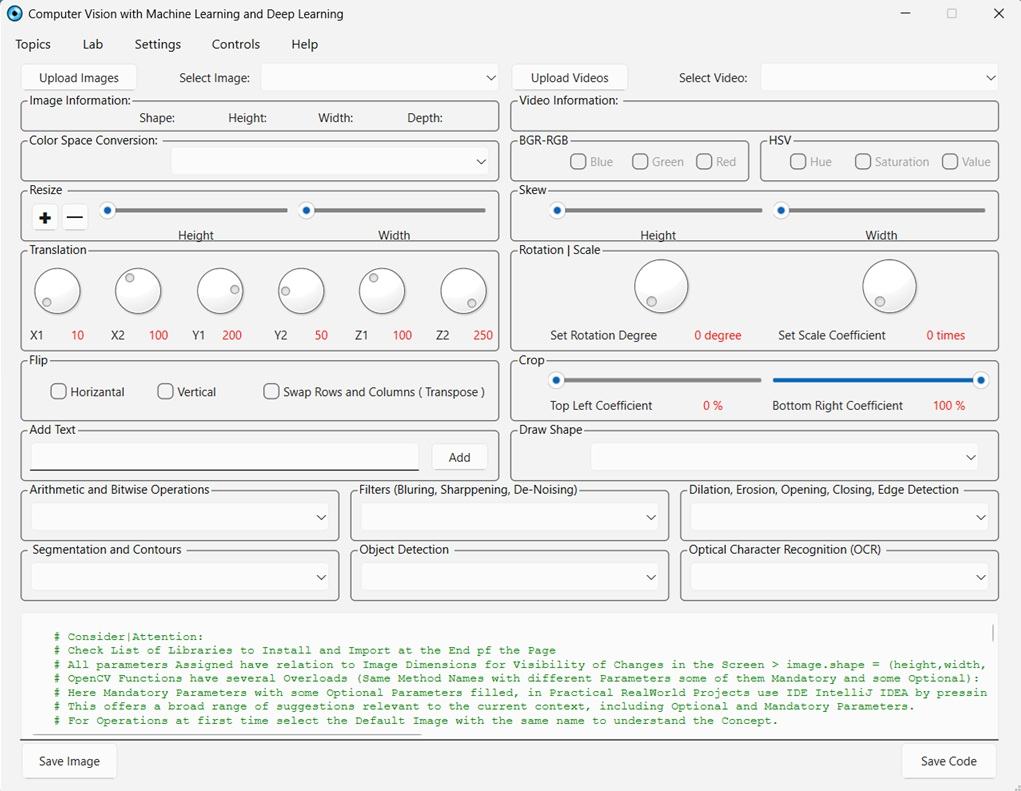
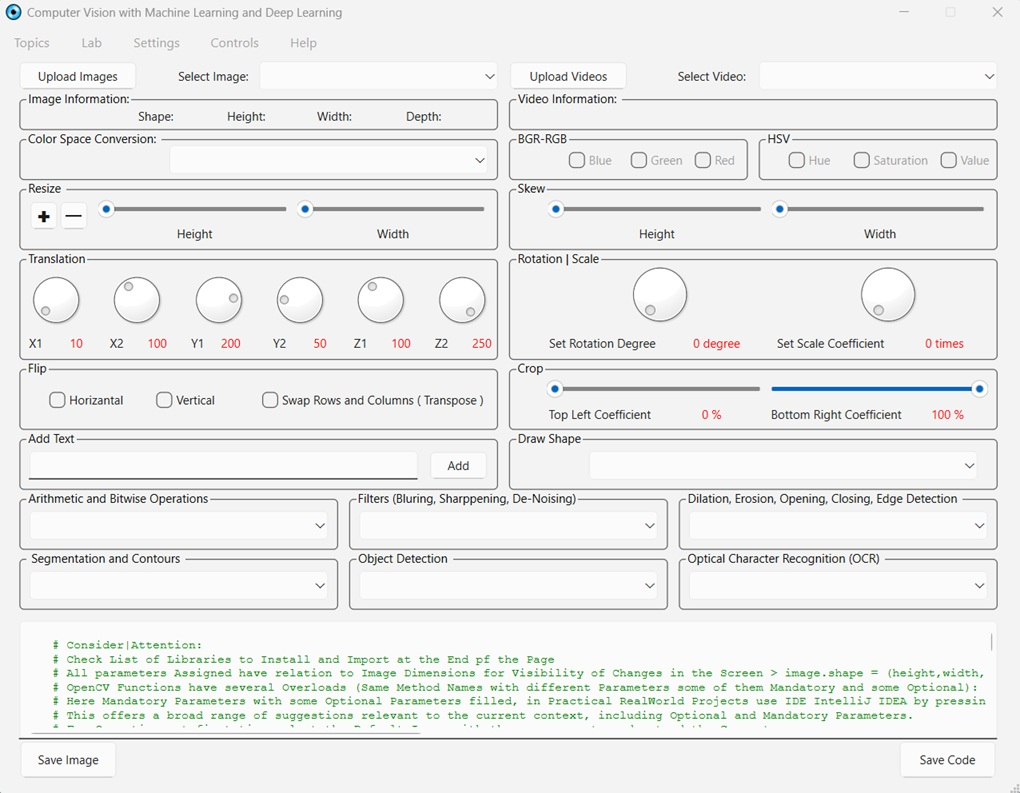
UI Refined.

Changed region(s): [[0.0, 0.091, 1.0, 0.9709], [0.0, 0.0, 0.3343, 0.0607]]

diff --git a/utilities/Ui_MainWindow.py b/utilities/Ui_MainWindow.py
@@ -50,7 +50,7 @@ class UI_MainWindow(object):
         self.page_ImagesAndColorsManipulationsAndOprations.setSizePolicy(sizePolicy)
         self.page_ImagesAndColorsManipulationsAndOprations.setObjectName("page_ImagesAndColorsManipulationsAndOprations")
         self.groupBox_FlipImage = QtWidgets.QGroupBox(parent=self.page_ImagesAndColorsManipulationsAndOprations)
-        self.groupBox_FlipImage.setGeometry(QtCore.QRect(10, 290, 481, 71))
+        self.groupBox_FlipImage.setGeometry(QtCore.QRect(10, 300, 481, 71))
         self.groupBox_FlipImage.setObjectName("groupBox_FlipImage")
         self.gridLayoutWidget_6 = QtWidgets.QWidget(parent=self.groupBox_FlipImage)
         self.gridLayoutWidget_6.setGeometry(QtCore.QRect(30, 10, 441, 61))
@@ -109,7 +109,7 @@ class UI_MainWindow(object):
         self.checkBox_HSVValue.setObjectName("checkBox_HSVValue")
         self.gridLayout_HSVChannel.addWidget(self.checkBox_HSVValue, 0, 2, 1, 1)
         self.groupBox_ResizeScaleImageByDimention = QtWidgets.QGroupBox(parent=self.page_ImagesAndColorsManipulationsAndOprations)
-        self.groupBox_ResizeScaleImageByDimention.setGeometry(QtCore.QRect(10, 120, 481, 61))
+        self.groupBox_ResizeScaleImageByDimention.setGeometry(QtCore.QRect(10, 120, 481, 71))
         self.groupBox_ResizeScaleImageByDimention.setObjectName("groupBox_ResizeScaleImageByDimention")
         self.gridLayoutWidget_4 = QtWidgets.QWidget(parent=self.groupBox_ResizeScaleImageByDimention)
         self.gridLayoutWidget_4.setGeometry(QtCore.QRect(80, 20, 391, 42))
@@ -156,7 +156,7 @@ class UI_MainWindow(object):
         self.pushButton_SmallerPyrDown.setFont(font)
         self.pushButton_SmallerPyrDown.setObjectName("pushButton_SmallerPyrDown")
         self.groupBox_RotationScale = QtWidgets.QGroupBox(parent=self.page_ImagesAndColorsManipulationsAndOprations)
-        self.groupBox_RotationScale.setGeometry(QtCore.QRect(500, 180, 491, 111))
+        self.groupBox_RotationScale.setGeometry(QtCore.QRect(500, 190, 491, 111))
         self.groupBox_RotationScale.setObjectName("groupBox_RotationScale")
         self.gridLayoutWidget_5 = QtWidgets.QWidget(parent=self.groupBox_RotationScale)
         self.gridLayoutWidget_5.setGeometry(QtCore.QRect(40, 10, 451, 91))
@@ -199,7 +199,7 @@ class UI_MainWindow(object):
         self.gridLayout_RorationScale.addWidget(self.label_RorationScaleValue, 0, 1, 1, 1)
         self.gridLayout_RotationScale.addLayout(self.gridLayout_RorationScale, 2, 1, 1, 1)
         self.groupBox_DrawingShape = QtWidgets.QGroupBox(parent=self.page_ImagesAndColorsManipulationsAndOprations)
-        self.groupBox_DrawingShape.setGeometry(QtCore.QRect(500, 360, 491, 61))
+        self.groupBox_DrawingShape.setGeometry(QtCore.QRect(500, 370, 491, 61))
         self.groupBox_DrawingShape.setObjectName("groupBox_DrawingShape")
         self.comboBox_DrawShape = QtWidgets.QComboBox(parent=self.groupBox_DrawingShape)
         self.comboBox_DrawShape.setGeometry(QtCore.QRect(80, 20, 391, 31))
@@ -212,7 +212,7 @@ class UI_MainWindow(object):
         self.comboBox_DrawShape.addItem("")
         self.comboBox_DrawShape.addItem("")
         self.groupBox_Translation = QtWidgets.QGroupBox(parent=self.page_ImagesAndColorsManipulationsAndOprations)
-        self.groupBox_Translation.setGeometry(QtCore.QRect(10, 180, 481, 111))
+        self.groupBox_Translation.setGeometry(QtCore.QRect(10, 190, 481, 111))
         self.groupBox_Translation.setObjectName("groupBox_Translation")
         self.gridLayoutWidget_7 = QtWidgets.QWidget(parent=self.groupBox_Translation)
         self.gridLayoutWidget_7.setGeometry(QtCore.QRect(0, 20, 481, 81))
@@ -322,7 +322,7 @@ class UI_MainWindow(object):
         self.gridLayout_Z2.addWidget(self.label_Z2_Value, 0, 1, 1, 1)
         self.gridLayout_Translation.addLayout(self.gridLayout_Z2, 1, 5, 1, 1)
         self.groupBox_AddText = QtWidgets.QGroupBox(parent=self.page_ImagesAndColorsManipulationsAndOprations)
-        self.groupBox_AddText.setGeometry(QtCore.QRect(10, 360, 481, 61))
+        self.groupBox_AddText.setGeometry(QtCore.QRect(10, 370, 481, 61))
         self.groupBox_AddText.setObjectName("groupBox_AddText")
         self.textEdit_AddText = QtWidgets.QTextEdit(parent=self.groupBox_AddText)
         self.textEdit_AddText.setGeometry(QtCore.QRect(10, 20, 391, 31))
@@ -331,7 +331,7 @@ class UI_MainWindow(object):
         self.pushButton_AddText.setGeometry(QtCore.QRect(410, 20, 61, 31))
         self.pushButton_AddText.setObjectName("pushButton_AddText")
         self.groupBox_Skew = QtWidgets.QGroupBox(parent=self.page_ImagesAndColorsManipulationsAndOprations)
-        self.groupBox_Skew.setGeometry(QtCore.QRect(500, 120, 491, 61))
+        self.groupBox_Skew.setGeometry(QtCore.QRect(500, 120, 491, 71))
         self.groupBox_Skew.setObjectName("groupBox_Skew")
         self.gridLayoutWidget_8 = QtWidgets.QWidget(parent=self.groupBox_Skew)
         self.gridLayoutWidget_8.setGeometry(QtCore.QRect(40, 20, 441, 42))
@@ -362,7 +362,7 @@ class UI_MainWindow(object):
         self.label_SkewWidth.setObjectName("label_SkewWidth")
         self.gridLayout_Skew.addWidget(self.label_SkewWidth, 2, 1, 1, 1)
         self.groupBox_Crop = QtWidgets.QGroupBox(parent=self.page_ImagesAndColorsManipulationsAndOprations)
-        self.groupBox_Crop.setGeometry(QtCore.QRect(500, 290, 491, 71))
+        self.groupBox_Crop.setGeometry(QtCore.QRect(500, 300, 491, 71))
         self.groupBox_Crop.setObjectName("groupBox_Crop")
         self.gridLayoutWidget_9 = QtWidgets.QWidget(parent=self.groupBox_Crop)
         self.gridLayoutWidget_9.setGeometry(QtCore.QRect(39, 20, 441, 44))
@@ -495,10 +495,10 @@ class UI_MainWindow(object):
         self.pushButton_SaveCode.setGeometry(QtCore.QRect(890, 680, 100, 40))
         self.pushButton_SaveCode.setObjectName("pushButton_SaveCode")
         self.textBrowser_ImageAndColors = QtWidgets.QTextBrowser(parent=self.page_ImagesAndColorsManipulationsAndOprations)
-        self.textBrowser_ImageAndColors.setGeometry(QtCore.QRect(10, 550, 981, 131))
+        self.textBrowser_ImageAndColors.setGeometry(QtCore.QRect(10, 560, 981, 121))
         self.textBrowser_ImageAndColors.setObjectName("textBrowser_ImageAndColors")
         self.groupBox_DilationErosionEdgeDetection = QtWidgets.QGroupBox(parent=self.page_ImagesAndColorsManipulationsAndOprations)
-        self.groupBox_DilationErosionEdgeDetection.setGeometry(QtCore.QRect(670, 420, 321, 61))
+        self.groupBox_DilationErosionEdgeDetection.setGeometry(QtCore.QRect(670, 430, 321, 61))
         self.groupBox_DilationErosionEdgeDetection.setObjectName("groupBox_DilationErosionEdgeDetection")
         self.comboBox_DilationErosionEdgeDetection = QtWidgets.QComboBox(parent=self.groupBox_DilationErosionEdgeDetection)
         self.comboBox_DilationErosionEdgeDetection.setGeometry(QtCore.QRect(10, 20, 301, 31))
@@ -509,7 +509,7 @@ class UI_MainWindow(object):
         self.comboBox_DilationErosionEdgeDetection.addItem("")
         self.comboBox_DilationErosionEdgeDetection.addItem("")
         self.groupBox_ObjectDetection = QtWidgets.QGroupBox(parent=self.page_ImagesAndColorsManipulationsAndOprations)
-        self.groupBox_ObjectDetection.setGeometry(QtCore.QRect(340, 480, 321, 61))
+        self.groupBox_ObjectDetection.setGeometry(QtCore.QRect(340, 490, 321, 61))
         self.groupBox_ObjectDetection.setObjectName("groupBox_ObjectDetection")
         self.comboBox_ObjectDetection = QtWidgets.QComboBox(parent=self.groupBox_ObjectDetection)
         self.comboBox_ObjectDetection.setGeometry(QtCore.QRect(10, 20, 301, 31))
@@ -525,7 +525,7 @@ class UI_MainWindow(object):
         self.comboBox_ObjectDetection.addItem("")
         self.comboBox_ObjectDetection.addItem("")
         self.groupBox_Filters = QtWidgets.QGroupBox(parent=self.page_ImagesAndColorsManipulationsAndOprations)
-        self.groupBox_Filters.setGeometry(QtCore.QRect(340, 420, 321, 61))
+        self.groupBox_Filters.setGeometry(QtCore.QRect(340, 430, 321, 61))
         self.groupBox_Filters.setObjectName("groupBox_Filters")
         self.comboBox_Filters = QtWidgets.QComboBox(parent=self.groupBox_Filters)
         self.comboBox_Filters.setGeometry(QtCore.QRect(10, 20, 301, 31))
@@ -538,7 +538,7 @@ class UI_MainWindow(object):
         self.comboBox_Filters.addItem("")
         self.comboBox_Filters.addItem("")
         self.groupBox_ArithmeticAndBitwiseOperations = QtWidgets.QGroupBox(parent=self.page_ImagesAndColorsManipulationsAndOprations)
-        self.groupBox_ArithmeticAndBitwiseOperations.setGeometry(QtCore.QRect(10, 420, 321, 61))
+        self.groupBox_ArithmeticAndBitwiseOperations.setGeometry(QtCore.QRect(10, 430, 321, 61))
         self.groupBox_ArithmeticAndBitwiseOperations.setObjectName("groupBox_ArithmeticAndBitwiseOperations")
         self.comboBox_ArithmeticAndBitwiseOperations = QtWidgets.QComboBox(parent=self.groupBox_ArithmeticAndBitwiseOperations)
         self.comboBox_ArithmeticAndBitwiseOperations.setGeometry(QtCore.QRect(10, 20, 301, 31))
@@ -548,7 +548,7 @@ class UI_MainWindow(object):
         self.comboBox_ArithmeticAndBitwiseOperations.addItem("")
         self.comboBox_ArithmeticAndBitwiseOperations.addItem("")
         self.groupBox_OCR = QtWidgets.QGroupBox(parent=self.page_ImagesAndColorsManipulationsAndOprations)
-        self.groupBox_OCR.setGeometry(QtCore.QRect(670, 480, 321, 61))
+        self.groupBox_OCR.setGeometry(QtCore.QRect(670, 490, 321, 61))
         self.groupBox_OCR.setObjectName("groupBox_OCR")
         self.comboBox_OCR = QtWidgets.QComboBox(parent=self.groupBox_OCR)
         self.comboBox_OCR.setGeometry(QtCore.QRect(10, 20, 301, 31))
@@ -558,7 +558,7 @@ class UI_MainWindow(object):
         self.comboBox_OCR.addItem("")
         self.comboBox_OCR.addItem("")
         self.groupBox_SegmentationAndContours = QtWidgets.QGroupBox(parent=self.page_ImagesAndColorsManipulationsAndOprations)
-        self.groupBox_SegmentationAndContours.setGeometry(QtCore.QRect(10, 480, 321, 61))
+        self.groupBox_SegmentationAndContours.setGeometry(QtCore.QRect(10, 490, 321, 61))
         self.groupBox_SegmentationAndContours.setObjectName("groupBox_SegmentationAndContours")
         self.comboBox_SegmentationAndContours = QtWidgets.QComboBox(parent=self.groupBox_SegmentationAndContours)
         self.comboBox_SegmentationAndContours.setGeometry(QtCore.QRect(10, 20, 301, 31))
